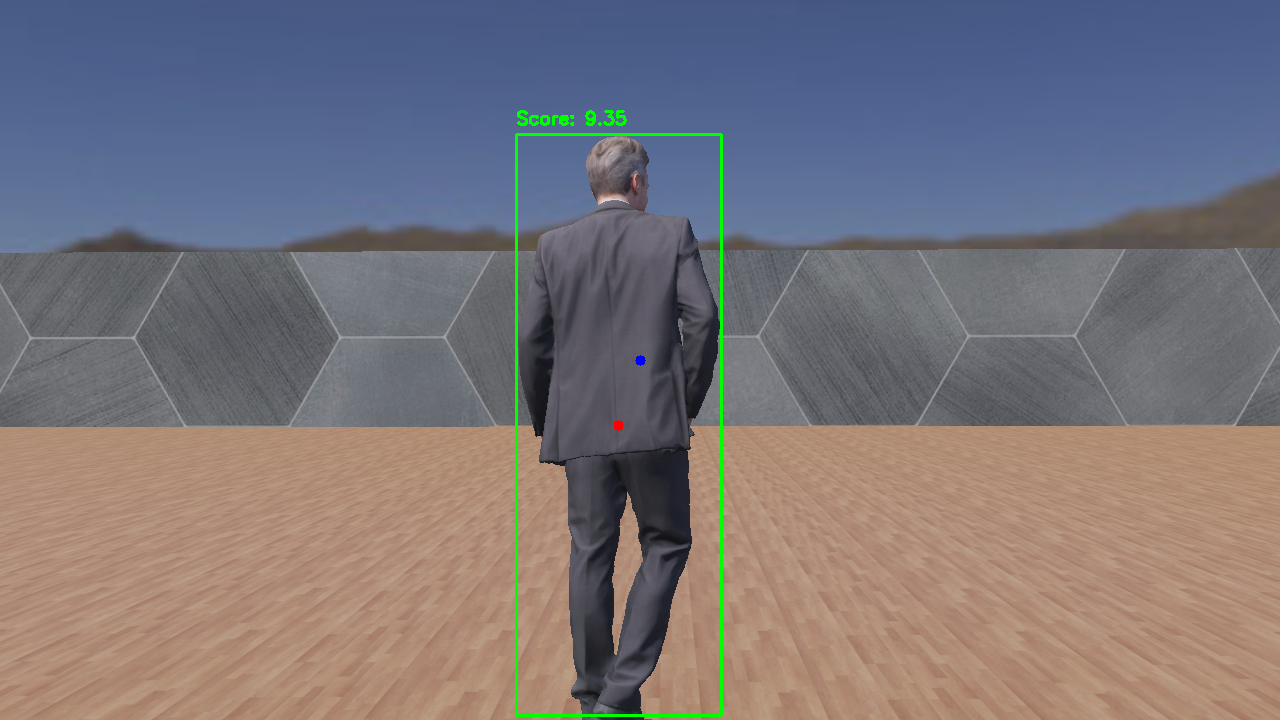
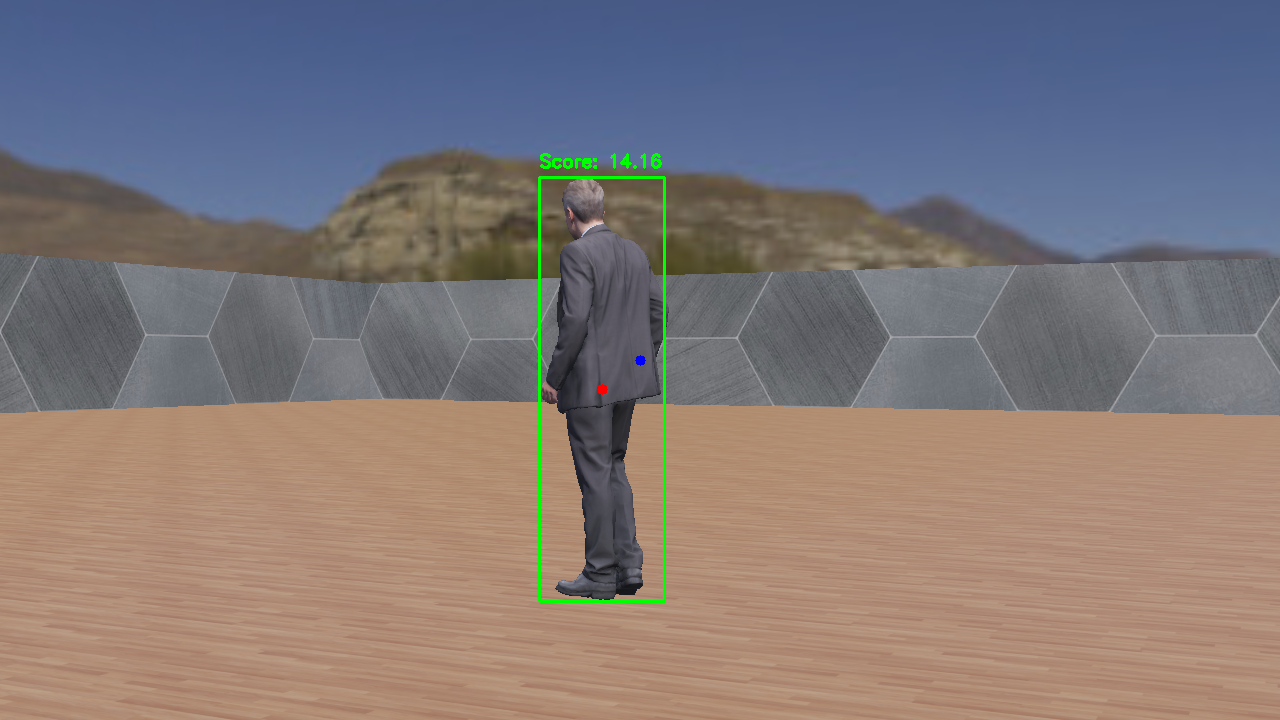
P4.1

Changed region(s): [[0.0, 0.1528, 1.0, 1.0], [0.8125, 0.4583, 0.8438, 0.4889]]

diff --git a/Verano_2026/controllers/Controlador_principal/Optimizador.py b/Verano_2026/controllers/Controlador_principal/Optimizador.py
@@ -93,9 +93,6 @@ def fun_costo(waypointsrt):
         # Calcular radio real actual para restricciones
         r = mt.sqrt((x - 1.0)**2 + (y - 1.0)**2)
 
-        # Calcular radio real actual para restricciones
-        r = mt.sqrt((x - 1.0)**2 + (y - 1.0)**2)
-
         # Restricciones en R (aunque los limites del optimizador ya evitan esto, lo dejamos por seguridad)
         if r<radio_min:
             h+=abs(radio_min-r)*500.0
@@ -104,12 +101,6 @@ def fun_costo(waypointsrt):
 
         # Penalización por cambios bruscos (Suavidad)
         if i > 0:
-            x_prev = wp_xy[i-1][0]
-            y_prev = wp_xy[i-1][1]
-            dist_prev = mt.sqrt((x - x_prev)**2 + (y - y_prev)**2)
-            # Penalizar si la distancia entre waypoints es muy grande (salto brusco)
-            if dist_prev > 2.5:
-                penalizacion_suavidad += (dist_prev - 2.5) * 100.0
             x_prev = wp_xy[i-1][0]
             y_prev = wp_xy[i-1][1]
             dist_prev = mt.sqrt((x - x_prev)**2 + (y - y_prev)**2)
@@ -156,18 +147,12 @@ def fun_costo(waypointsrt):
             dist_seg = mt.sqrt((px - cx)**2 + (py - cy)**2)
             if dist_seg < 1.15:
                 h += abs(1.15 - dist_seg) * 500.0
-            if dist_seg < 1.15:
-                h += abs(1.15 - dist_seg) * 500.0
 
     if h>0:
       ptj=peso*(-100.0)
       costo=-ptj+h+penalizacion_distancia+penalizacion_suavidad
       costos.append(costo)
       print(f"Posicion invalida: {contador} - Costo: {costo:.2f}")
-      
-      with open(ruta_historial, mode='a', newline='') as file:
-          writer = csv.writer(file)
-          writer.writerow([contador, costo] + np.ravel(wp_xy).tolist())
       
       with open(ruta_historial, mode='a', newline='') as file:
           writer = csv.writer(file)
@@ -199,10 +184,15 @@ def fun_costo(waypointsrt):
     # 5. Retornar el costo
     puntaje=detector.imagenes_capturadas()
     
-    ptj=peso*puntaje
+    # PESOS para gradiente continuo
+    peso_fotos = 3.2
+    peso_dist = 0.5
+    peso_tiempo = 0.2
     
-    # El costo ahora se basa en el puntaje, volumen e irregularidades (ruidos)
-    costo = -ptj+h+penalizacion_distancia+penalizacion_suavidad
+    ptj = peso_fotos * puntaje
+    
+    # El costo ahora incluye la distancia y el tiempo para que COBYLA tenga un gradiente que seguir
+    costo = -ptj + h + penalizacion_distancia + penalizacion_suavidad + (peso_dist * distancia_teorica) + (peso_tiempo * tiempo_total)
     
     costos.append(costo)
 
@@ -269,7 +259,7 @@ if __name__ == "__main__":
         restricciones.append({'type': 'ineq', 'fun': crear_restriccion_max(j)})
 
     # Ejecutar COBYLA
-    resultado = minimize(fun_costo, x0=wp_in, method='COBYLA', constraints=restricciones, options={'maxiter': 8, 'disp': True})
+    resultado = minimize(fun_costo, x0=wp_in, method='COBYLA', constraints=restricciones, options={'maxiter': 250, 'disp': True})
     
     print("\n")
     print(f"RESULTADO FINAL (XY):\n{np.round(np.reshape(resultado.x, (-1, 2)), 2)}")
@@ -295,7 +285,6 @@ if __name__ == "__main__":
     # # plt.show() # Opcional: mostrar la gráfica al final
 
     ty_opt=np.reshape(resultado.x, (-1, 2)).tolist()
-    ty_opt=np.reshape(resultado.x, (-1, 2)).tolist()
 
     # # Recalculamos a Cartesianas para guardar la misión completa en 3D
     wp_final = []
@@ -306,7 +295,7 @@ if __name__ == "__main__":
         y = xy[1]
         wp_final.append([x, y, z])
 
-    graficas_finales(costos,resultado,ruta_convergencia,ruta_resultados,altura,rmin,rmax)
+    graficas_finales(costos,resultado,ruta_convergencia,ruta_base,altura,rmin,rmax)
 
     # x_opt = [w[0] for w in wp_final]
     # y_opt = [w[1] for w in wp_final]

diff --git a/Verano_2026/controllers/Controlador_principal/Controlador_principal.py b/Verano_2026/controllers/Controlador_principal/Controlador_principal.py
@@ -188,34 +188,56 @@ while robot.step(timestep) != -1:
         dist_recorrida=0.0  
     
     if indice_wp < len(puntos):
-        destino=list(puntos[indice_wp][:3])
         
-        if funcionando==False:
-            distancia_total = mt.sqrt((destino[0] - x)**2 + (destino[1] - y)**2)
-            t_vuelo = max(distancia_total / vel_dron, 4.0) 
-            #dist_yaw=normalizar_angulos(destino[3]-pos_act[3])
-            #destino[3]=pos_act[3]+dist_yaw
-
-            a0,a1,a2,a3=Generador.generar_tray(pos_act,destino,t_vuelo)
-            t_inicial=t_act
-            funcionando=True
+        if funcionando == False:
+            from scipy.interpolate import CubicSpline
+            
+            # 1. Creamos la lista de puntos iniciando desde la posición ACTUAL del dron
+            distancias = [0.0]
+            puntos_limpios = [pos_act] 
+            
+            # 2. Unimos todos los waypoints midiendo la distancia entre ellos
+            for i in range(len(puntos)):
+                p_prev = puntos_limpios[-1]
+                p_act = puntos[i][:3]  # Asegurar que solo tomamos X,Y,Z
+                
+                # Calculamos la distancia con el punto anterior
+                d = mt.sqrt((p_act[0]-p_prev[0])**2 + (p_act[1]-p_prev[1])**2 + (p_act[2]-p_prev[2])**2)
+                
+                # Evitamos duplicados o puntos demasiado juntos (causan error matemático en el spline)
+                if d > 0.01: 
+                    distancias.append(distancias[-1] + d)
+                    puntos_limpios.append(p_act)
+                    
+            distancia_total_ruta = distancias[-1]
+            
+            # Tiempo estimado para recorrer TODO el circuito a velocidad constante
+            t_vuelo = max(distancia_total_ruta / vel_dron, 1.0)
+            
+            # 3. Generar el Spline Cúbico Continuo (la curva suave)
+            # Esto interpola todos los puntos en un solo trazo sin frenadas
+            spline_trayectoria = CubicSpline(distancias, puntos_limpios)
+            
+            t_inicial = t_act
+            funcionando = True
         
+        # 4. Calcular dónde debería estar el dron en este instante de tiempo
+        t_tray = t_act - t_inicial
         
-        t_tray=min(t_act-t_inicial,t_vuelo)
-        pos_des,vel_des=Generador.eval(a0,a1,a2,a3,t_tray,t_vuelo)
-        x_des=pos_des[0]
-        y_des=pos_des[1]
-        z_des=pos_des[2]
-        w_des=normalizar_angulos(yd)
-        # w_des=normalizar_angulos(pos_des[3])
-        #w_des=mt.atan2(pos_y-pos_act[1],pos_x-pos_act[0])
-        #w_des=yaw
+        # Distancia teórica que el dron debió haber recorrido a velocidad constante
+        distancia_actual = min(t_tray * vel_dron, distancia_total_ruta)
         
-
-        dist_destino=mt.sqrt((destino[0]-pos_act[0])**2+(destino[1]-pos_act[1])**2)
-        if dist_destino < 0.2 or ((t_act - t_inicial) > (t_vuelo + 3.0)):
-            indice_wp += 1
-            funcionando=False
+        # Evaluar la curva en esa distancia
+        pos_des = spline_trayectoria(distancia_actual)
+        x_des = float(pos_des[0])
+        y_des = float(pos_des[1])
+        z_des = float(pos_des[2])
+        w_des = normalizar_angulos(yd) 
+        
+        # 5. Condición para terminar la simulación (cuando el tiempo total se acaba)
+        # Le damos 1.0 segundo extra para asegurar que llegó al último punto
+        if t_tray > t_vuelo + 1.0: 
+            indice_wp = len(puntos) # Esto forzará que pase al 'else' de abajo y apague motores
     else:
         apagar_motores(m1,m2,m3,m4)
         reporte_vuelo={

diff --git a/Verano_2026/controllers/Controlador_principal/graficas.py b/Verano_2026/controllers/Controlador_principal/graficas.py
@@ -80,7 +80,7 @@ def graficas_finales(costos,resultado,ruta_convergencia,ruta_base,altura,rmin,rm
     plt.plot(x_opt, y_opt, marker='x', color='blue', label='Ruta')
     lista="Coordenadas: \n"
     ax = plt.gca()
-    for i, (x, y, z) in enumerate(zip(x_opt[:-1], y_opt[:-1])):
+    for i, (x, y) in enumerate(zip(x_opt[:-1], y_opt[:-1])):
         #plt.text(x+0.15, y+0.15, f"({x:.1f}, {y:.1f},{z:.1f})", fontsize=8, ha='right', va='center', color='black')
         plt.text(x+0.15, y+0.15, f"P{i}", fontsize=8, color='black',)
         lista+=f"P{i}: ({x:.1f}, {y:.1f},{altura})\n"

diff --git a/Verano_2026/controllers/Controlador_principal/yolo_detector.py b/Verano_2026/controllers/Controlador_principal/yolo_detector.py
@@ -134,7 +134,7 @@ class YoloDetector:
                 porc = (altura_obj / altura) * 100.0
                 
                 # Evaluacion de altura de objeto (Deseado: 60% de la altura de la imagen)
-                error_altura = abs(porc - 60.0)
+                error_altura = abs(porc - 70.0)
                 # 5.0 puntos si es perfecto (error 0). 
                 # Suavizamos la penalización
                 puntaje_altura = 5.0 - (error_altura / 40.0) * 5.0
